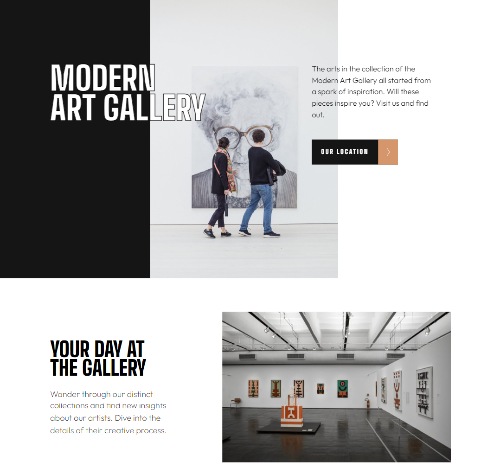
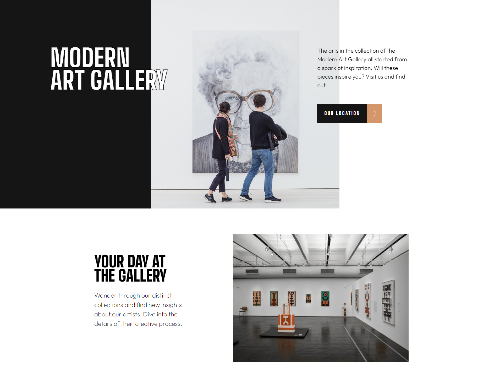
Removed underline from links and deleted an unused screenshot

diff --git a/my-app/src/assets/ProjectData/ProjectData.ts b/my-app/src/assets/ProjectData/ProjectData.ts
@@ -44,7 +44,7 @@ export const ProjectData: { title: string, stack: Array<string>, liveLink?: stri
         stack: ['JAVASCRIPT', 'HTML/CSS'],
         liveLink: 'https://elegant-morse-5cd661.netlify.app/',
         github: 'https://github.com/MorganBare/Art-gallery-website',
-        screenshot: 'art2.png'
+        screenshot: 'art.png'
     },
     {
         title: 'This Portfolio',

diff --git a/my-app/src/components/Navigation/Navigation.styled.ts b/my-app/src/components/Navigation/Navigation.styled.ts
@@ -14,6 +14,7 @@ export const Nav = styled.nav`
 export const NavLink = styled.a`
     font-size: ${props => props.theme.fontSize.fs200};
     color: white;
+    text-decoration: none;
 
     :hover{
         cursor: pointer;
